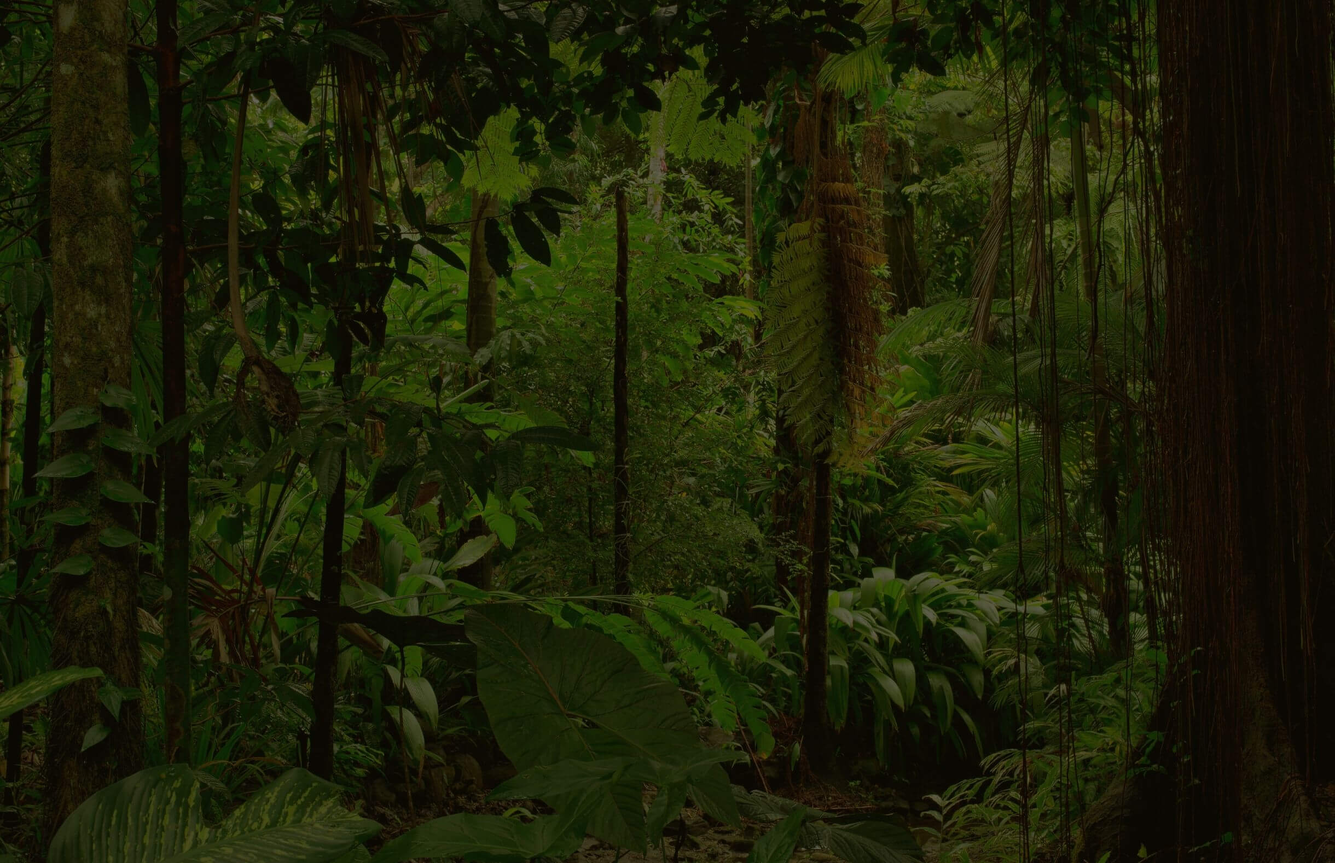
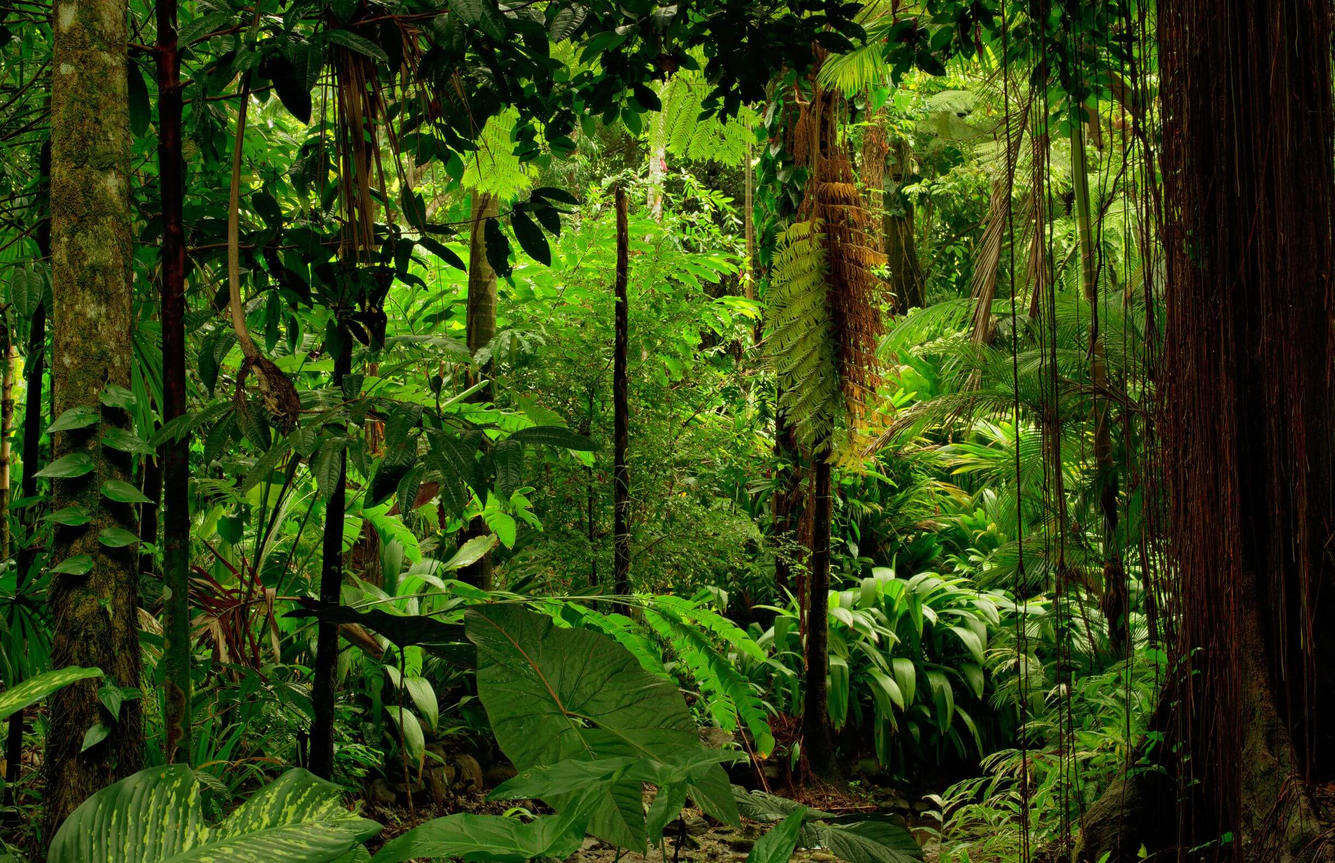
Add content

diff --git a/contact.html b/contact.html
@@ -85,7 +85,7 @@
 
     <!-- Start Page Heading 
     ============================================= -->
-    <div class="page-heading shadow dark bg-fixed text-light" style="background-image: url(assets/img/2440x1578.png);">
+    <div class="page-heading shadow dark bg-fixed text-light" style="background-image: url(assets/img/storyx-rainforest.jpg);">
         <div class="container">
             <div class="row">
                 <div class="col-md-12">
@@ -98,7 +98,7 @@
 
     <!-- Start Breadcrumb Banner 
     ============================================= -->
-    <div class="breadcrumb-items bg-gray">
+    <!-- <div class="breadcrumb-items bg-gray">
         <div class="container">
             <div class="row">
                 <div class="col-md-12">
@@ -110,7 +110,7 @@
                 </div>
             </div>
         </div>
-    </div>
+    </div> -->
     <!-- End Breadcrumb Banner -->
 
     <!-- Start Contact 
@@ -120,27 +120,21 @@
             <div class="row">
                 <div class="col-md-5 address-info left-info">
                     <h2>Contact Info</h2>
-                    <h4>Hunted excited females whether at examine. Him abilities suffering may are yet dependent.</h4>
+                    <h4>StoryX is a Cornish based startup.</h4>
                     <ul>
-                        <li>
-                            <i class="fas fa-map-marker-alt"></i>
-                            <p>
-                                Our Location
-                                <span>Alexima, NT 456678</span>
-                            </p>
-                        </li>
+                        
                         <li>
                             <i class="fas fa-envelope-open"></i>
                             <p>
                                 Send Us Mail
-                                <span>Info@yourdomain.com</span>
+                                <span>hello@storyx.co.uk</span>
                             </p>
                         </li>
                         <li>
                             <i class="fas fa-mobile-alt"></i>
                             <p>
                                 Call Us
-                                <span>+456 456 4443</span>
+                                <span>+44 7496 156 915</span>
                             </p>
                         </li>
                     </ul>
@@ -202,84 +196,128 @@
     </div>
     <!-- End Contact -->
 
-    <!-- Start Google Maps 
-    ============================================= -->
-    <div class="google-maps-area full-width">
-        <div class="google-maps">
-            <iframe src="https://www.google.com/maps/embed?pb=!1m10!1m8!1m3!1d14767.262289338461!2d70.79414485000001!3d22.284975!3m2!1i1024!2i768!4f13.1!5e0!3m2!1sen!2sin!4v1424308883981"></iframe>
-        </div>
-    </div>
-    <!-- End Google Maps -->
 
-    <!-- Start Footer 
-    ============================================= -->
-    <footer class="text-center bg-dark text-light">
-        <div class="container">
-            <div class="row">
-                <div class="col-md-3 logo text-left">
-                    <img src="assets/img/logo-light.png" alt="Logo">
+
+
+    <div class="banner-area auto-height navbar-transparent text-light shadow bg-fixed"
+        style="background-image: url(assets/img/cornwal.jpg);">
+        <div class="box-table">
+            <div class="box-cell">
+                <div class="container text-center max-width-50">
+
+
+                    <h2>Mission</h2>
+                    <h3>Build amazing websites, for amazing businesses, use tech for good and inspire people
+                        to make choices that are good for people and our planet.</h3>
+
+                    <!-- <a href="sustainability.html." class="btn btn-light effect btn-md">Find out more</a> -->
                 </div>
-                
-                <div class="col-md-6 menu text-center">
-                    <ul>
-                        <li>
-                            <a href="#">Home</a>
-                        </li>
-                        <li>
-                            <a href="#">Portfolio</a>
-                        </li>
-                        <li>
-                            <a href="#">Blog</a>
-                        </li>
-                        <li>
-                            <a href="#">Services</a>
-                        </li>
-                        <li>
-                            <a href="#">Contact</a>
-                        </li>
-                    </ul>
-                </div>
-                <div class="col-md-3 footer-social text-right">
-                    <ul>
-                        <li class="facebook">
-                            <a href="#"><i class="fab fa-facebook-f"></i></a>
-                        </li>
-                        <li class="twitter">
-                            <a href="#"><i class="fab fa-twitter"></i></a>
-                        </li>
-                        <li class="pinterest">
-                            <a href="#"><i class="fab fa-pinterest"></i></a>
-                        </li>
-                        <li class="dribbble">
-                            <a href="#"><i class="fab fa-dribbble"></i></a>
-                        </li>
-                    </ul>
-                </div>
-                <div class="col-md-12 copyright border">
-                    <p>&copy; Copyright 2018. Adipotto Template By <a href="#">Validthemes</a></p>
-                </div>
+
             </div>
         </div>
-    </footer>
+    </div>
 
-    <!-- jQuery Frameworks
-    ============================================= -->
-    <script src="assets/js/jquery-1.12.4.min.js"></script>
-    <script src="assets/js/bootstrap.min.js"></script>
-    <script src="assets/js/equal-height.min.js"></script>
-    <script src="assets/js/jquery.appear.js"></script>
-    <script src="assets/js/jquery.easing.min.js"></script>
-    <script src="assets/js/jquery.magnific-popup.min.js"></script>
-    <script src="assets/js/modernizr.custom.13711.js"></script>
-    <script src="assets/js/owl.carousel.min.js"></script>
-    <script src="assets/js/wow.min.js"></script>
-    <script src="assets/js/isotope.pkgd.min.js"></script>
-    <script src="assets/js/imagesloaded.pkgd.min.js"></script>
-    <script src="assets/js/count-to.js"></script>
-    <script src="assets/js/bootsnav.js"></script>
-    <script src="assets/js/typed.js"></script>
-    <script src="assets/js/YTPlayer.min.js"></script>
-    <script src="assets/js/main.js"></script>
+
+
+   
+ <!--======= FOOTER UP =========-->
+ <section class="footer-up">
+    <div class="col-sm-3">
+        <div class="logo"> <a href="index.html"> <img src="assets/img/logo-light.png" alt="StoryX Logo"></a>
+        </div>
+    </div>
+
+    <div class="col-sm-3">
+        <div class="work"> <i class="ion-map"></i>
+            <ol>
+                <li>
+                    <a href="blog.html">Blog</a>
+                </li>
+                <li>
+                    <a href="slavery.html">Privacy notice</a>
+                </li>
+                <li><a href="slavery.html">Accessibility statement</a></li>
+                <li><a href="slavery.html">Anti-slavery and human trafficking statement</a></li>
+                <li>
+                    <a href="sustainability.html">Sustainability</a>
+                </li>
+
+            </ol>
+        </div>
+    </div>
+
+    <div class="col-sm-3">
+
+        <div class="work-email">
+            <h5>Contact</h5>
+            <a href="mailto:james@we-are-responsible.com">hello@storyx.co.uk</a>
+        </div>
+    </div>
+
+    <div class="col-sm-3">
+
+        <div class="contact row">
+
+            <!--======= Social Icon =========-->
+
+
+            <ul>
+                <li class="facebook">
+                    <a href="#"><i class="fab fa-facebook-f"></i></a>
+                </li>
+                <li class="twitter">
+                    <a href="#"><i class="fab fa-twitter"></i></a>
+                </li>
+                <li class="pinterest">
+                    <a href="#"><i class="fab fa-pinterest"></i></a>
+                </li>
+                <li class="dribbble">
+                    <a href="#"><i class="fab fa-dribbble"></i></a>
+                </li>
+            </ul>
+
+        </div>
+    </div>
+
+
+
+
+</section>
+
+
+</div>
+</div>
+</footer>
+
+
+
+<section id="footer">
+
+    <p>Company no. 14197072 (England & Wales)</p>
+    <p>Copyright © 2022 - All Rights Reserved</p>
+
+</section>
+<!-- Wrap End -->
+
+<!-- jQuery Frameworks
+============================================= -->
+<script src="assets/js/jquery-1.12.4.min.js"></script>
+<script src="assets/js/bootstrap.min.js"></script>
+<script src="assets/js/equal-height.min.js"></script>
+<script src="assets/js/jquery.appear.js"></script>
+<script src="assets/js/jquery.easing.min.js"></script>
+<script src="assets/js/jquery.magnific-popup.min.js"></script>
+<script src="assets/js/modernizr.custom.13711.js"></script>
+<script src="assets/js/owl.carousel.min.js"></script>
+<script src="assets/js/wow.min.js"></script>
+<script src="assets/js/isotope.pkgd.min.js"></script>
+<script src="assets/js/imagesloaded.pkgd.min.js"></script>
+<script src="assets/js/count-to.js"></script>
+<script src="assets/js/bootsnav.js"></script>
+<script src="assets/js/typed.js"></script>
+<script src="assets/js/YTPlayer.min.js"></script>
+<script src="assets/js/main.js"></script>
 
 </body>
+
 </html>
